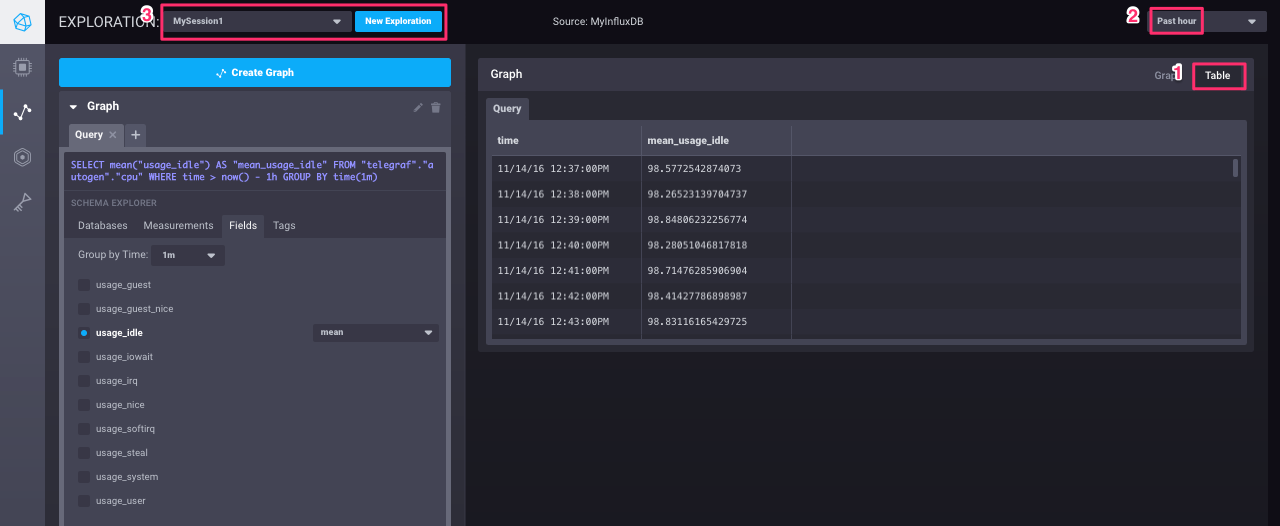
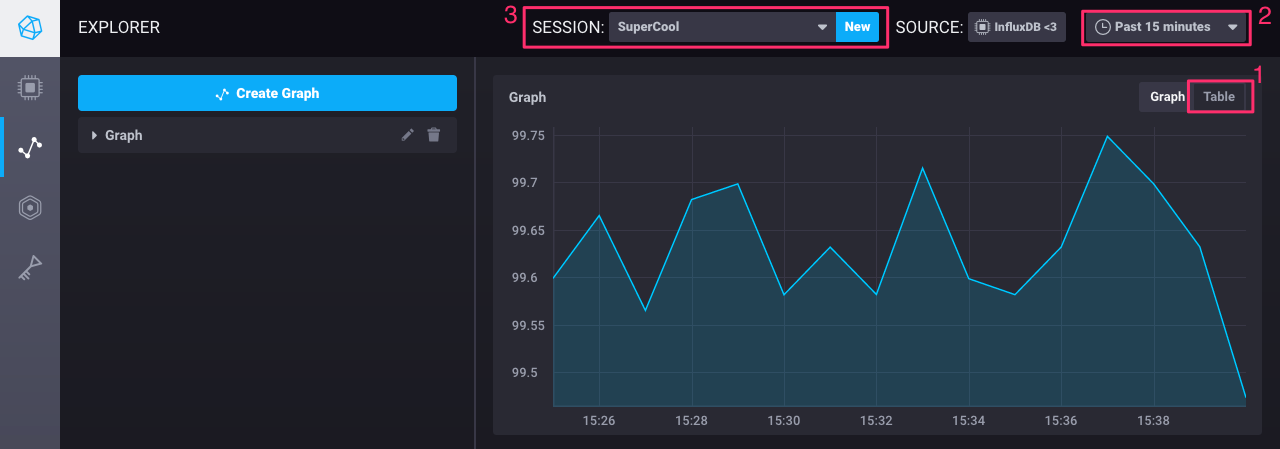
Update Getting Started for beta3 release

diff --git a/docs/GETTING_STARTED.md b/docs/GETTING_STARTED.md
@@ -31,11 +31,20 @@ See the [README](https://github.com/influxdata/chronograf#dashboard-templates) f
 
 Chronograf's Data Explorer gives you the tools to dig in and create personalized visualizations of your data.
 
+### Generate Visualizations with the Query Builder
+
 Use the query builder to easily generate [InfluxQL](https://docs.influxdata.com/influxdb/latest/query_language/) queries and create beautiful visualizations:
 
 ![Data Exploration](https://github.com/influxdata/chronograf/blob/master/docs/images/data-exploration-gs.gif)
 
-You can also view those same query results in tabular format (1), easily alter the query's time range with the time range selector (2), and save your graphs in individual exploration sessions (3):
+### Generate Visualizations with the Raw Query Editor
+
+Paste an existing [InfluxQL](https://docs.influxdata.com/influxdb/latest/query_language/) query or write a query from scratch with the `InfluxQL` editor:
+
+![Raw Editor](https://github.com/influxdata/chronograf/blob/master/docs/images/raw-editor-gs.gif)
+
+### Other Features
+View query results in tabular format (1), easily alter the query's time range with the time range selector (2), and save your graphs in individual exploration sessions (3):
 
 ![Data Exploration Extras](https://github.com/influxdata/chronograf/blob/master/docs/images/data-exploration-extras-gs.png)
 
